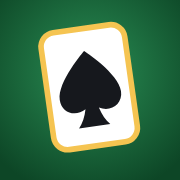
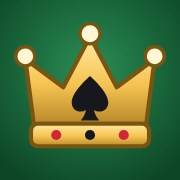
Le jeu s'appelle maintenant Couronne Poker
- Nouveau nom : onglet, accueil, nom sur l'écran d'accueil du téléphone
  (manifeste), description de la page, README
- Nouvelle icône et logo d'accueil : couronne dorée sur tapis vert
- Rien de technique ne change (réglages enregistrés, comptes, codes de table)

Claude-Session: https://claude.ai/code/session_01EK6UwGUPAZwRKP9g9ab3CX

diff --git a/index.html b/index.html
@@ -4,21 +4,22 @@
   <meta charset="UTF-8">
   <meta name="viewport" content="width=device-width, initial-scale=1, viewport-fit=cover">
   <meta name="theme-color" content="#08130d">
-  <title>Poker Hold'em</title>
+  <title>Couronne Poker</title>
+  <meta name="description" content="Couronne Poker : Texas Hold'em No Limit gratuit, en solo contre des bots ou en ligne entre amis, avec jetons fictifs.">
   <link rel="icon" href="icons/icon.svg" type="image/svg+xml">
   <link rel="icon" href="icons/icon-32.png" sizes="32x32" type="image/png">
   <link rel="apple-touch-icon" href="icons/icon-180.png">
   <link rel="manifest" href="manifest.webmanifest">
-  <link rel="stylesheet" href="style.css?v=202611121543">
+  <link rel="stylesheet" href="style.css?v=202611121546">
 </head>
 <body>
 
   <!-- ============ Écran d'accueil ============ -->
   <section id="screen-home" class="screen active" aria-labelledby="home-title">
     <div class="home-card">
-      <div class="home-suits" aria-hidden="true"><span>♠</span><span class="red">♥</span><span class="red">♦</span><span>♣</span></div>
-      <h1 id="home-title">Texas Hold'em</h1>
-      <p class="home-subtitle">No Limit · contre des bots ou entre amis</p>
+      <img class="home-logo" src="icons/icon.svg" alt="" width="84" height="84">
+      <h1 id="home-title">Couronne Poker</h1>
+      <p class="home-subtitle">Texas Hold'em No Limit · contre des bots ou entre amis</p>
 
       <div class="account-bar" id="account-bar" aria-live="polite"></div>
 
@@ -471,19 +472,19 @@
     </div>
   </section>
 
-  <script src="js/deck.js?v=202611121543"></script>
-  <script src="js/handEvaluator.js?v=202611121543"></script>
-  <script src="js/game.js?v=202611121543"></script>
-  <script src="js/bot.js?v=202611121543"></script>
-  <script src="js/session.js?v=202611121543"></script>
-  <script src="js/net.js?v=202611121543"></script>
-  <script src="js/config.js?v=202611121543"></script>
-  <script src="js/looks.js?v=202611121543"></script>
-  <script src="js/account.js?v=202611121543"></script>
-  <script src="js/accountUi.js?v=202611121543"></script>
-  <script src="js/ranked.js?v=202611121543"></script>
-  <script src="js/tables.js?v=202611121543"></script>
-  <script src="js/rules.js?v=202611121543"></script>
-  <script src="js/ui.js?v=202611121543"></script>
+  <script src="js/deck.js?v=202611121546"></script>
+  <script src="js/handEvaluator.js?v=202611121546"></script>
+  <script src="js/game.js?v=202611121546"></script>
+  <script src="js/bot.js?v=202611121546"></script>
+  <script src="js/session.js?v=202611121546"></script>
+  <script src="js/net.js?v=202611121546"></script>
+  <script src="js/config.js?v=202611121546"></script>
+  <script src="js/looks.js?v=202611121546"></script>
+  <script src="js/account.js?v=202611121546"></script>
+  <script src="js/accountUi.js?v=202611121546"></script>
+  <script src="js/ranked.js?v=202611121546"></script>
+  <script src="js/tables.js?v=202611121546"></script>
+  <script src="js/rules.js?v=202611121546"></script>
+  <script src="js/ui.js?v=202611121546"></script>
 </body>
 </html>

diff --git a/style.css b/style.css
@@ -1,5 +1,5 @@
 /* ==========================================================================
-   Poker Texas Hold'em — feuille de style
+   Couronne Poker — feuille de style
    Table vue de dessus, cartes dessinées en CSS, mise en page responsive.
    ========================================================================== */
 
@@ -75,24 +75,14 @@ button, input { font: inherit; color: inherit; }
   text-align: center;
 }
 
-.home-suits {
-  display: flex;
-  justify-content: center;
-  gap: 10px;
-  font-size: 30px;
-  margin-bottom: 4px;
+.home-logo {
+  display: block;
+  width: 84px;
+  height: 84px;
+  margin: 0 auto 2px;
+  border-radius: 20px;
+  box-shadow: 0 10px 28px rgba(0, 0, 0, 0.45), 0 0 0 1px rgba(245, 196, 81, 0.35);
 }
-.home-suits span {
-  width: 46px; height: 46px;
-  display: grid; place-items: center;
-  border-radius: 10px;
-  background: #fff;
-  color: var(--black-suit);
-  box-shadow: 0 6px 16px rgba(0, 0, 0, 0.4);
-}
-.home-suits span:nth-child(odd) { transform: rotate(-8deg); }
-.home-suits span:nth-child(even) { transform: rotate(6deg) translateY(-4px); }
-.home-suits .red { color: var(--red-suit); }
 
 h1 {
   margin: 16px 0 4px;

diff --git a/tests.html b/tests.html
@@ -3,7 +3,7 @@
 <head>
   <meta charset="UTF-8">
   <meta name="viewport" content="width=device-width, initial-scale=1">
-  <title>Tests — évaluation des mains</title>
+  <title>Tests — Couronne Poker</title>
   <link rel="icon" href="icons/icon.svg" type="image/svg+xml">
   <style>
     :root { color-scheme: dark; }
@@ -35,10 +35,10 @@
   <div id="results"></div>
 </main>
 
-<script src="js/deck.js?v=202611121543"></script>
-<script src="js/handEvaluator.js?v=202611121543"></script>
-<script src="js/game.js?v=202611121543"></script>
-<script src="js/rules.js?v=202611121543"></script>
+<script src="js/deck.js?v=202611121546"></script>
+<script src="js/handEvaluator.js?v=202611121546"></script>
+<script src="js/game.js?v=202611121546"></script>
+<script src="js/rules.js?v=202611121546"></script>
 <script>
 (function () {
   'use strict';

diff --git a/README.md b/README.md
@@ -1,6 +1,6 @@
-# Poker Texas Hold'em
+# Couronne Poker
 
-Texas Hold'em No Limit jouable dans le navigateur : en solo contre des bots, ou en ligne entre amis.
+Couronne Poker est un Texas Hold'em No Limit jouable dans le navigateur : en solo contre des bots, ou en ligne entre amis.
 Jetons fictifs uniquement (1 000 au départ), aucun argent réel.
 
 ## Jouer
@@ -79,7 +79,7 @@ un tricheur déterminé pourrait gonfler ses statistiques dans ces limites : les
 
 ## Mise à jour du site
 
-`index.html` charge `style.css` et les scripts avec un numéro de version (`style.css?v=202611121543`).
+`index.html` charge `style.css` et les scripts avec un numéro de version (`style.css?v=202611121546`).
 Après chaque modification, changez ce numéro (le même partout) : les navigateurs rechargent alors les
 nouveaux fichiers au lieu de garder les anciens en cache (GitHub Pages autorise jusqu'à 10 minutes de cache).
 
